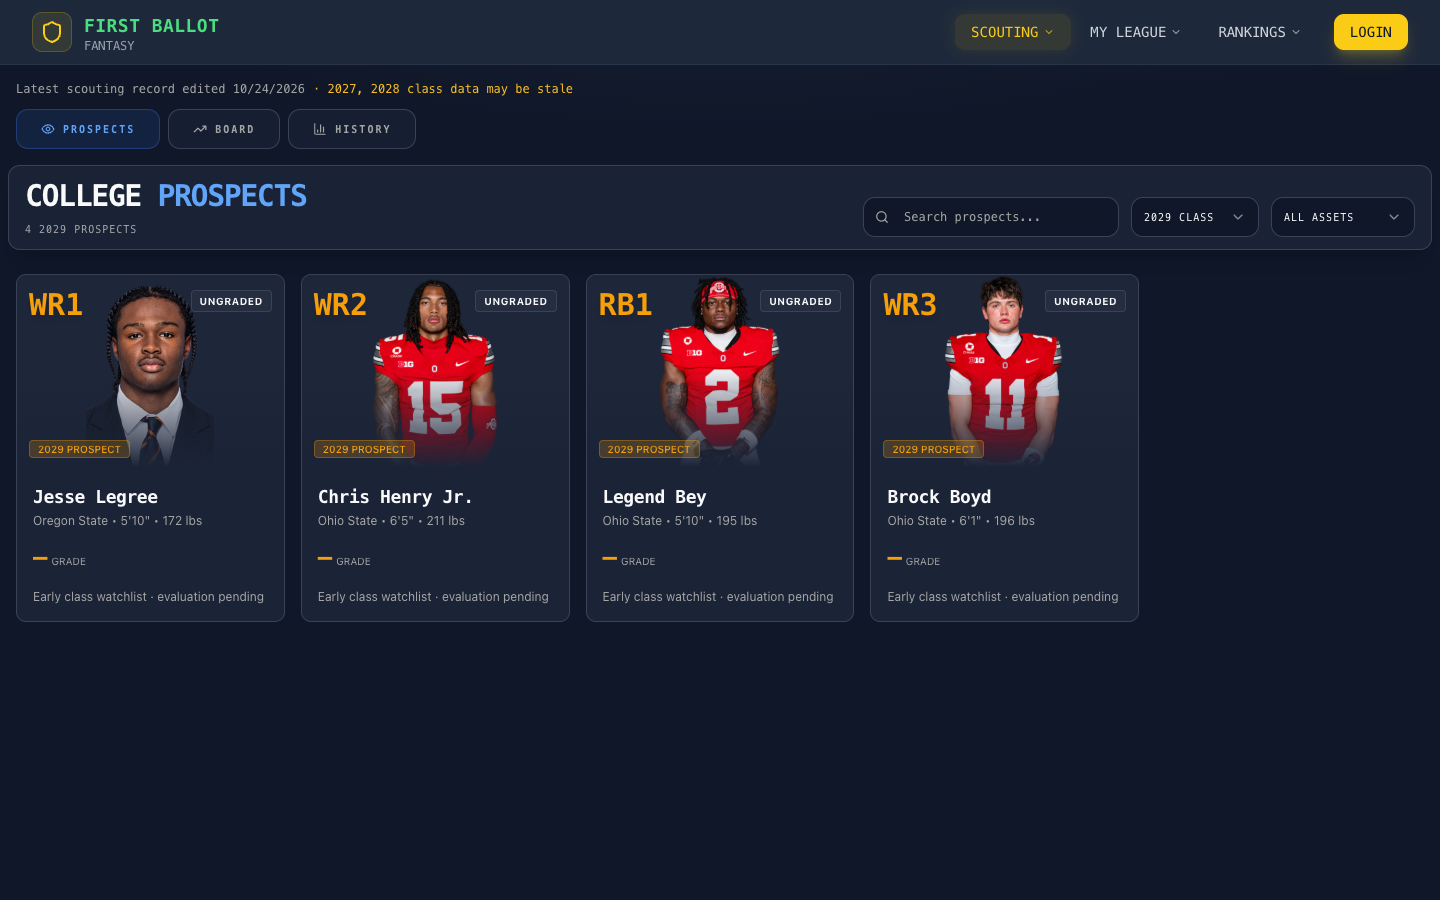
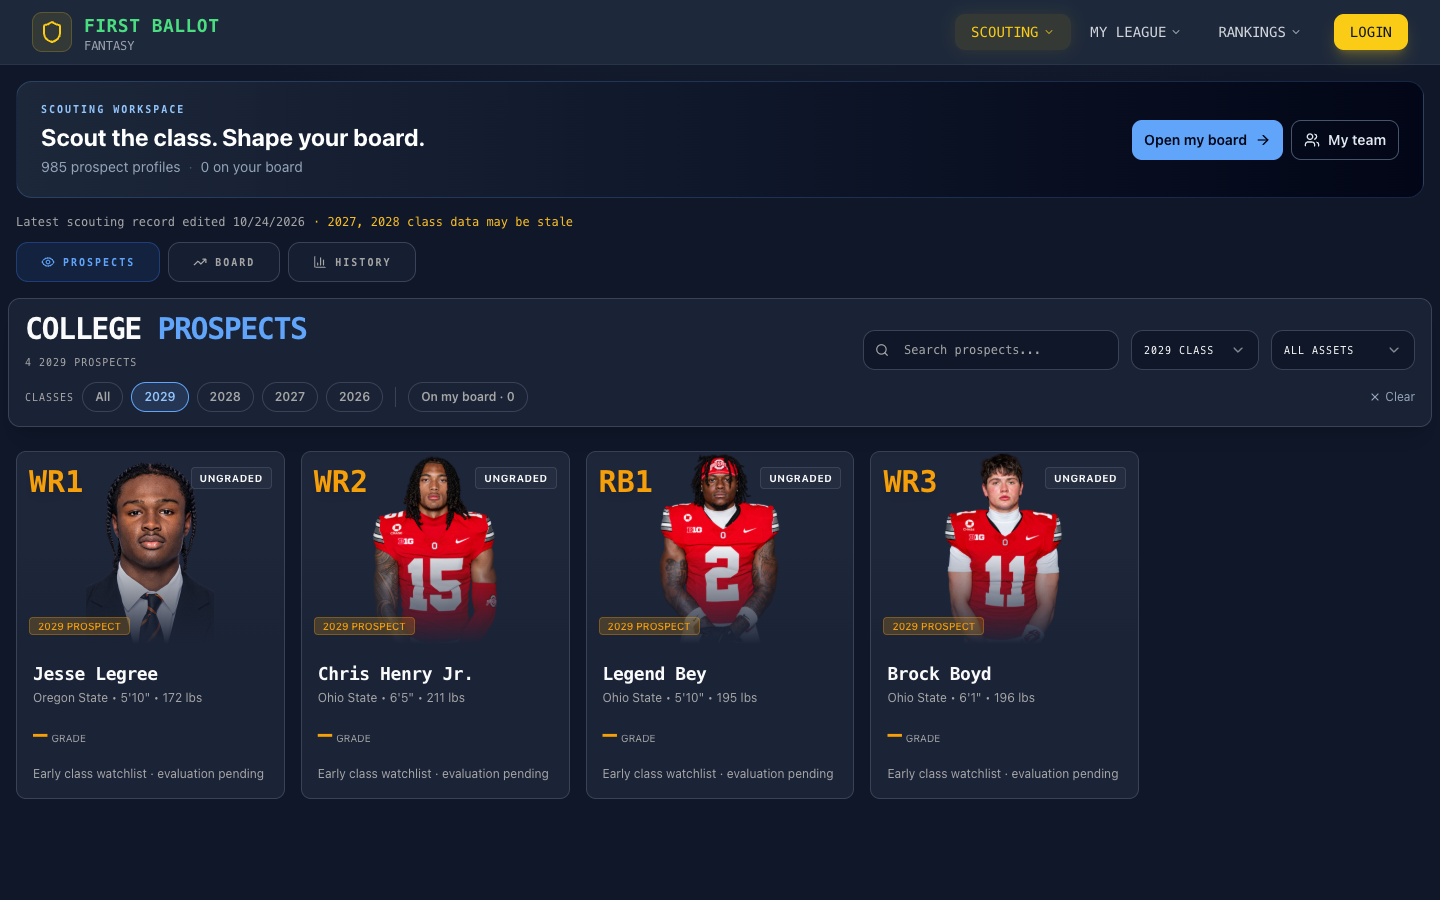
Document internal app flows with updated screenshots

diff --git a/firstballot/components/league-buddy/LeagueBuddySidebar.tsx b/firstballot/components/league-buddy/LeagueBuddySidebar.tsx
@@ -21,7 +21,7 @@ import { Collapsible, CollapsibleContent, CollapsibleTrigger } from '@/component
 import { UserAvatar } from '@/components/user-avatar'
 import { useRouter } from 'next/navigation'
 import { leagueCache } from '@/lib/league-cache'
-import { LEAGUE_QUICK_LINKS, LEAGUE_SECTIONS } from './navigation'
+import { LEAGUE_QUICK_LINKS, LEAGUE_SECTIONS, withLeagueId } from './navigation'
 import type { LeagueOverview, LeagueSection, TeamData } from './types'
 
 const GRADE_COLORS: Record<string, string> = {
@@ -105,12 +105,7 @@ export function LeagueBuddySidebar({
 
   const goTo = (href: string) => {
     // Preserve league context across tools that accept a leagueId.
-    const leagueId = leagueCache.getLeagueId()
-    if (!leagueId) return router.push(href)
-    const [path, query] = href.split('?')
-    const params = new URLSearchParams(query || '')
-    params.set('leagueId', leagueId)
-    router.push(`${path}?${params.toString()}`)
+    router.push(withLeagueId(href, leagueCache.getLeagueId()))
   }
 
   return (

diff --git a/firstballot/components/league-buddy/navigation.ts b/firstballot/components/league-buddy/navigation.ts
@@ -23,6 +23,14 @@ export function resolveLeagueSection(tab: string | null): LeagueSection {
   return 'overview'
 }
 
+export function withLeagueId(href: string, leagueId: string | null): string {
+  if (!leagueId) return href
+  const [path, query] = href.split('?')
+  const params = new URLSearchParams(query || '')
+  params.set('leagueId', leagueId)
+  return `${path}?${params.toString()}`
+}
+
 export interface LeagueQuickLink {
   key: string
   label: string
